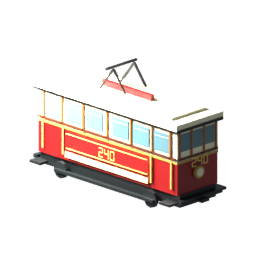
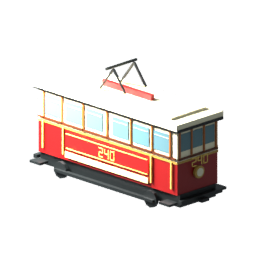
Enlarge tram model

diff --git a/scripts/Create-Ringhoffer240.py b/scripts/Create-Ringhoffer240.py
@@ -99,7 +99,7 @@ def fleet_number(axis, fixed, z, chip=11):
                 center = (fixed,offset+p[0],z+p[1]); size = (.0007,.008,.0012) if horizontal else (.0007,.0012,.007)
             box('fleet number 240', center, size, chip)
 
-# Dimensions in metres: couplers define the exact 0.300 m overall length.
+# Build a compact source mesh, then uniformly enlarge it to match the frame in game.
 box('undercarriage', (0,0,.020), (.270,.069,.018), 6)
 box('lower red body', (0,0,.052), (.268,.077,.047), 0)
 box('waist brass band', (0,0,.075), (.269,.079,.003), 10)
@@ -145,7 +145,7 @@ for end in (-1,1):
     rod('headlight lens', (end*.139,0,.055), (end*.140,0,.055), .006, 14, 12)
     fleet_number('y', end*.139, .072)
 
-# A compact diamond pantograph stays visible while the 30 cm model remains hand-sized.
+# A compact diamond pantograph stays visible on the hand-held model.
 for y in (-.020,.020):
     rod('pantograph lower', (-.034,y,.139), (-.008,y,.173), .0017, 6)
     rod('pantograph upper', (-.008,y,.173), (.015,y,.143), .0017, 6)
@@ -162,9 +162,11 @@ bpy.ops.object.join()
 tram = bpy.context.object
 tram.name = 'Ringhoffer240'
 bpy.ops.object.transform_apply(location=True, rotation=True, scale=True)
+for vertex in tram.data.vertices:
+    vertex.co *= 1.8
 assert len([o for o in bpy.data.objects if o.type == 'MESH']) == 1
 assert len(tram.data.uv_layers) == 1 and len(tram.data.materials) == 1
-assert abs((max(v.co.x for v in tram.data.vertices)-min(v.co.x for v in tram.data.vertices))-.300) < .0001
+assert abs((max(v.co.x for v in tram.data.vertices)-min(v.co.x for v in tram.data.vertices))-.540) < .0001
 bpy.ops.wm.save_as_mainfile(filepath=str(art / 'Ringhoffer240.blend'))
 bpy.ops.export_scene.fbx(filepath=str(models / 'Ringhoffer240.fbx'), use_selection=True,
     object_types={'MESH'}, axis_forward='-Z', axis_up='Y', apply_unit_scale=True,
@@ -176,16 +178,16 @@ bpy.context.scene.world = world
 world.use_nodes = True
 world.node_tree.nodes['Background'].inputs['Color'].default_value = (.35,.39,.42,1)
 world.node_tree.nodes['Background'].inputs['Strength'].default_value = .65
-bpy.ops.object.light_add(type='AREA', location=(-.20,-.24,.35))
-bpy.context.object.data.energy = 30
+bpy.ops.object.light_add(type='AREA', location=(-.36,-.43,.63))
+bpy.context.object.data.energy = 97
 bpy.context.object.data.shape = 'DISK'
-bpy.context.object.data.size = .30
-bpy.ops.object.camera_add(location=(.42,-.42,.29))
+bpy.context.object.data.size = .54
+bpy.ops.object.camera_add(location=(.76,-.76,.52))
 camera = bpy.context.object
-direction = Vector((0,0,.085))-camera.location
+direction = Vector((0,0,.153))-camera.location
 camera.rotation_euler = direction.to_track_quat('-Z','Y').to_euler()
 camera.data.type = 'ORTHO'
-camera.data.ortho_scale = .35
+camera.data.ortho_scale = .63
 bpy.context.scene.camera = camera
 scene = bpy.context.scene
 scene.render.engine = 'CYCLES'

diff --git a/Assets/MoreScrapItems/Editor/MoreScrapAssetBuilder.cs b/Assets/MoreScrapItems/Editor/MoreScrapAssetBuilder.cs
@@ -55,8 +55,8 @@ public static class MoreScrapAssetBuilder
                     throw new Exception(prefab.name + ": expected a 512x512 atlas with mipmaps.");
                 var bounds = renderers[0].bounds;
                 if (prefab.name == "Ringhoffer240" &&
-                    (bounds.size.x < .295f || bounds.size.x > .305f))
-                    throw new Exception($"Ringhoffer240 must be 0.300 m long in Unity; got {bounds.size.x:F4} m.");
+                    (bounds.size.x < .535f || bounds.size.x > .545f))
+                    throw new Exception($"Ringhoffer240 must be 0.540 m long in Unity; got {bounds.size.x:F4} m.");
                 report.Add($"{prefab.name} triangles={triangles} renderers={renderers.Length} materials=1 texture={texture.width}x{texture.height} format={texture.format} mipmaps={texture.mipmapCount} bounds={bounds.size}");
             }
             Directory.CreateDirectory("Builds/MoreScrapItems");

diff --git a/scripts/Export-Edited-Model.py b/scripts/Export-Edited-Model.py
@@ -88,8 +88,8 @@ def check_and_export(name):
             if any(abs(low[i]-previous[0][i]) > .002 or abs(high[i]-previous[1][i]) > .002
                    for i in range(3)):
                 raise RuntimeError(f'{name}: bounds changed; review held pose and collision, then use --allow-bounds-change.')
-        elif name == 'Ringhoffer240' and abs((high.x - low.x) - .300) > .002:
-            raise RuntimeError(f'{name}: expected a 0.300 m long model; use --allow-bounds-change after reviewing the size.')
+        elif name == 'Ringhoffer240' and abs((high.x - low.x) - .540) > .002:
+            raise RuntimeError(f'{name}: expected a 0.540 m long model; use --allow-bounds-change after reviewing the size.')
 
     if args.validate_only:
         print(f'MANUAL_MODEL_VALID {name}: {len(mesh.loop_triangles)} triangles, dimensions={tuple(high-low)}')
